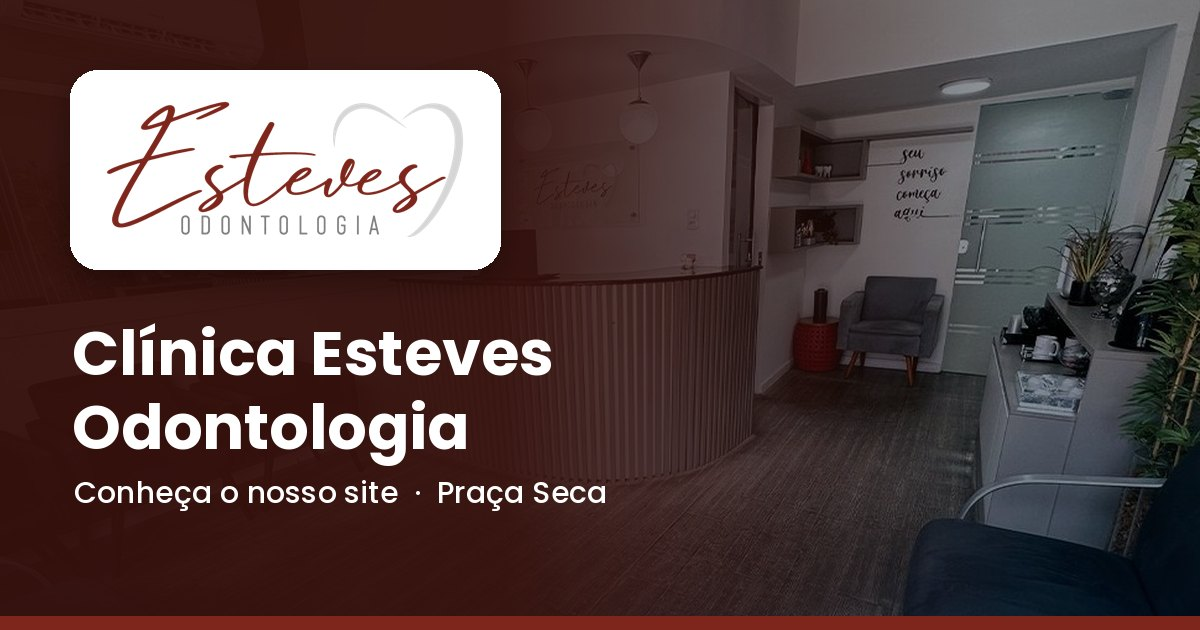
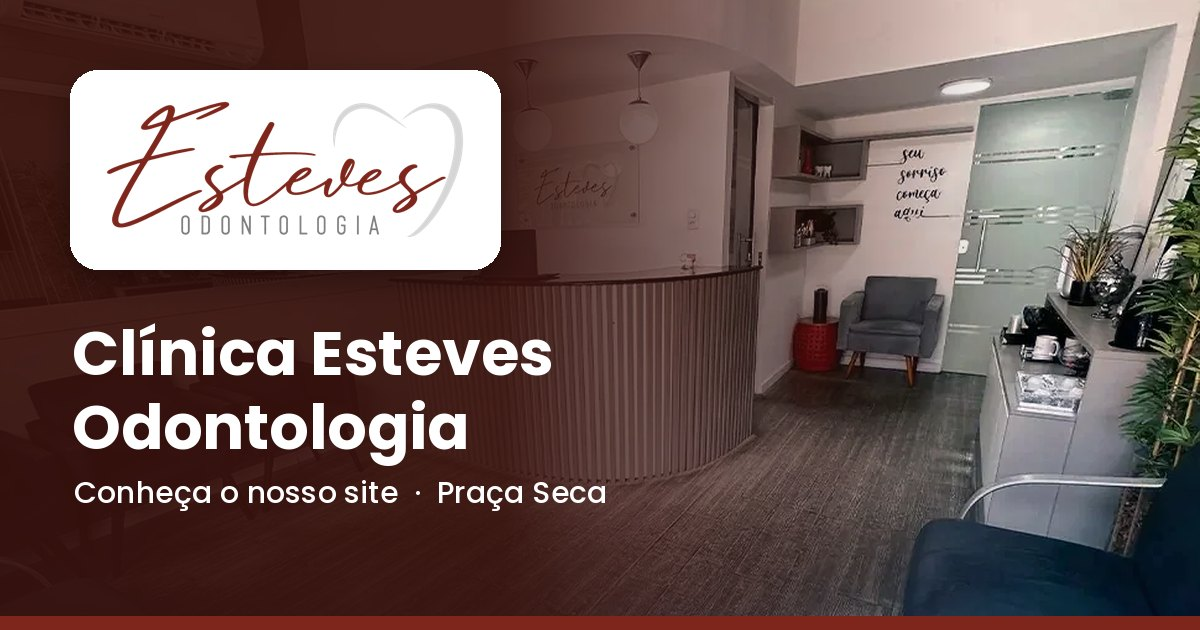
Prévia: Clínica Esteves, prazo que expira sozinho, contraste e recepção sem filtro
Claude-Session: https://claude.ai/code/session_01SS6JB1U4UcZ5AYANM7PWRd

diff --git a/previas/clinica-esteves/index.html b/previas/clinica-esteves/index.html
@@ -12,12 +12,12 @@
 <meta property="og:title" content="Clínica Esteves Odontologia">
 <meta property="og:description" content="Clínica Esteves: odontologia na Praça Seca há 25 anos, com protocolo sobre implantes, próteses e estética do sorriso, e avaliação pelo WhatsApp.">
 <meta property="og:url" content="https://sites.business2brothers.com/previas/clinica-esteves/">
-<meta property="og:image" content="https://sites.business2brothers.com/previas/clinica-esteves/capa-og.jpg">
+<meta property="og:image" content="https://sites.business2brothers.com/previas/clinica-esteves/capa-og.jpg?v=2">
 <meta property="og:image:width" content="1200">
 <meta property="og:image:height" content="630">
 <meta property="og:image:alt" content="Clínica Esteves Odontologia">
 <meta name="twitter:card" content="summary_large_image">
-<meta name="twitter:image" content="https://sites.business2brothers.com/previas/clinica-esteves/capa-og.jpg">
+<meta name="twitter:image" content="https://sites.business2brothers.com/previas/clinica-esteves/capa-og.jpg?v=2">
 <meta name="theme-color" content="#7e261c">
 <link rel="icon" href="favicon.png?v=2">
 <link rel="apple-touch-icon" href="favicon.png?v=2">
@@ -26,7 +26,7 @@
 <link rel="stylesheet" href="https://fonts.googleapis.com/css2?family=Plus+Jakarta+Sans:wght@400;500;600;700;800&family=DM+Serif+Display&family=Caveat:wght@500;600&family=Allura&display=swap">
 <style>
 :root{
-  --azul:#7e261c; --azul-2:#9a3328; --marinho:#2b2523; --vinho:#7e261c; --vinho-2:#9a3328; --titulo:#2b2523; --cinza:#7a7a7a; --dente:#d6d6d6;
+  --azul:#7e261c; --azul-2:#9a3328; --marinho:#2b2523; --vinho:#7e261c; --vinho-2:#9a3328; --titulo:#2b2523; --cinza:#6b6b6b; --dente:#d6d6d6;
   --texto:#6b6461; --prata:#a7a7a7; --ceu:#f4f1ef; --creme:#faf6f3; --pessego:#f6e6e1; --fio:#ece6e2; --branco:#fff;
   --sans:"Plus Jakarta Sans",system-ui,-apple-system,"Segoe UI",sans-serif;
   --serif:"DM Serif Display",Georgia,serif;
@@ -242,7 +242,7 @@ h1,h2,h3,p{margin:0}
 .zap svg{width:30px;height:30px;fill:#fff}
 </style>
 <script type="application/ld+json">
-{"@context":"https://schema.org","@type":"Dentist","name":"Clínica Esteves Odontologia","image":"https://sites.business2brothers.com/previas/clinica-esteves/capa-og.jpg","logo":"https://sites.business2brothers.com/previas/clinica-esteves/logo.png","telephone":"+55 21 96695-9538","url":"https://sites.business2brothers.com/previas/clinica-esteves/","address":{"@type":"PostalAddress","streetAddress":"Rua Barão, 911, loja A","addressLocality":"Rio de Janeiro","addressRegion":"RJ","postalCode":"21321-622","addressCountry":"BR"},"areaServed":["Praça Seca","Jacarepaguá","Rio de Janeiro"],"sameAs":["https://www.instagram.com/clinicaestevesodontologia/"],"employee":{"@type":"Person","name":"Dra. Luciana Esteves","jobTitle":"Cirurgiã-dentista, CRO-RJ 28064"}}
+{"@context":"https://schema.org","@type":"Dentist","name":"Clínica Esteves Odontologia","image":"https://sites.business2brothers.com/previas/clinica-esteves/capa-og.jpg?v=2","logo":"https://sites.business2brothers.com/previas/clinica-esteves/logo.png","telephone":"+55 21 96695-9538","url":"https://sites.business2brothers.com/previas/clinica-esteves/","address":{"@type":"PostalAddress","streetAddress":"Rua Barão, 911, loja A","addressLocality":"Rio de Janeiro","addressRegion":"RJ","postalCode":"21321-622","addressCountry":"BR"},"areaServed":["Praça Seca","Jacarepaguá","Rio de Janeiro"],"sameAs":["https://www.instagram.com/clinicaestevesodontologia/"],"employee":{"@type":"Person","name":"Dra. Luciana Esteves","jobTitle":"Cirurgiã-dentista, CRO-RJ 28064"}}
 </script>
 </head>
 <body>
@@ -273,7 +273,7 @@ h1,h2,h3,p{margin:0}
 
 <div class="aviso">
   <div class="wrap">
-    <span>A agenda para <b>iniciar tratamentos em 2026</b> vai até 10 de dezembro</span>
+    <span data-prazo>A agenda para <b>iniciar tratamentos em 2026</b> vai até 10 de dezembro</span><span data-depois hidden>Avaliação com <b>horário marcado</b> pelo WhatsApp</span>
     <a href="https://wa.me/5521966959538?text=Ol%C3%A1%21%20Vim%20pelo%20site%20e%20gostaria%20de%20agendar%20uma%20avalia%C3%A7%C3%A3o." target="_blank" rel="noopener">Agendar avaliação <svg class="ic"><use href="#i-seta"/></svg></a>
   </div>
 </div>
@@ -381,9 +381,11 @@ h1,h2,h3,p{margin:0}
         <article class="passo"><h3>Cuide</h3><p>Protocolo também se limpa com passa-fio e escova unitufo, porque a escova comum não alcança tudo.</p></article>
         <article class="passo"><h3>Revise</h3><p>Implante não tem cárie, mas osso e gengiva adoecem em silêncio. Revisão em dia resolve cedo.</p></article>
         <div class="agenda">
-          <p class="data"><small>Agenda 2026</small>10 de dezembro</p>
-          <p>É a data limite para <b>iniciar tratamentos este ano</b>. Quanto antes você começar, mais possibilidades para cuidar do seu caso ainda em 2026.</p>
-          <a class="btn" href="https://wa.me/5521966959538?text=Ol%C3%A1%21%20Gostaria%20de%20agendar%20uma%20avalia%C3%A7%C3%A3o%20ainda%20este%20ano." target="_blank" rel="noopener">Agendar <svg class="ic seta"><use href="#i-seta"/></svg></a>
+          <p class="data" data-prazo><small>Agenda 2026</small>10 de dezembro</p>
+          <p data-prazo>É a data limite para <b>iniciar tratamentos este ano</b>. Quanto antes você começar, mais possibilidades para cuidar do seu caso ainda em 2026.</p>
+          <p class="data" data-depois hidden><small>Primeiro passo</small>Uma conversa</p>
+          <p data-depois hidden>A avaliação é o momento de <b>entender o seu caso</b>, sem pressa e sem julgamento. Você sai sabendo as possibilidades e o prazo real.</p>
+          <a class="btn" href="https://wa.me/5521966959538?text=Ol%C3%A1%21%20Gostaria%20de%20agendar%20uma%20avalia%C3%A7%C3%A3o%20." target="_blank" rel="noopener">Agendar <svg class="ic seta"><use href="#i-seta"/></svg></a>
         </div>
       </div>
     </div>
@@ -418,7 +420,7 @@ h1,h2,h3,p{margin:0}
   </section>
 
   <section class="chamada" id="agendar">
-    <div class="foto"><img src="img/recepcao.webp" alt="Recepção da Clínica Esteves com a logo na parede" width="970" height="630" loading="lazy"></div>
+    <div class="foto"><img src="img/recepcao-clara.webp" alt="Recepção da Clínica Esteves com a logo na parede" width="970" height="630" loading="lazy"></div>
     <div class="wrap">
       <div class="meio">
         <div>
@@ -474,5 +476,12 @@ h1,h2,h3,p{margin:0}
 </footer>
 
 <a class="zap" href="https://wa.me/5521966959538?text=Ol%C3%A1%21%20Vim%20pelo%20site%20e%20gostaria%20de%20agendar%20uma%20avalia%C3%A7%C3%A3o." target="_blank" rel="noopener" aria-label="Conversar pelo WhatsApp"><svg viewBox="0 0 32 32"><use href="#i-zap"/></svg></a>
+<script>
+/* depois de 10/12/2026 o aviso de prazo some sozinho e entra uma chamada que não vence */
+if (new Date() > new Date('2026-12-10T23:59:59-03:00')) {
+  document.querySelectorAll('[data-prazo]').forEach(e => e.hidden = true);
+  document.querySelectorAll('[data-depois]').forEach(e => e.hidden = false);
+}
+</script>
 </body>
 </html>
